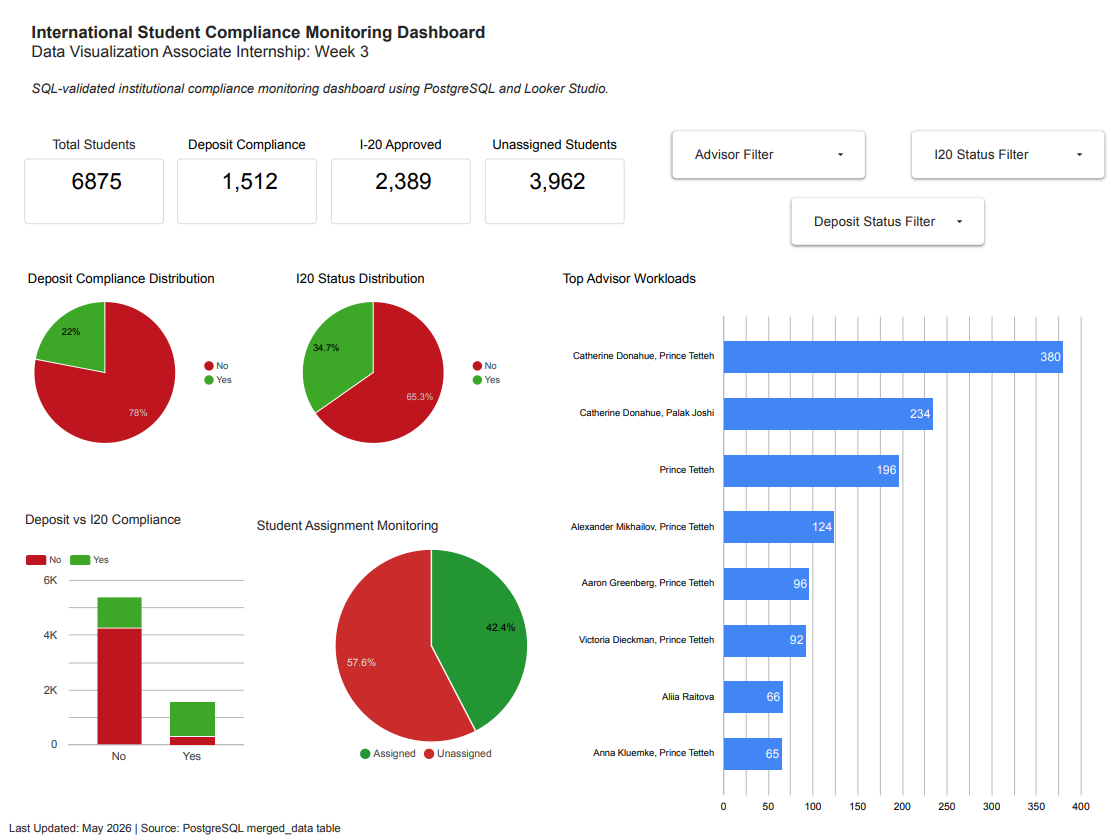
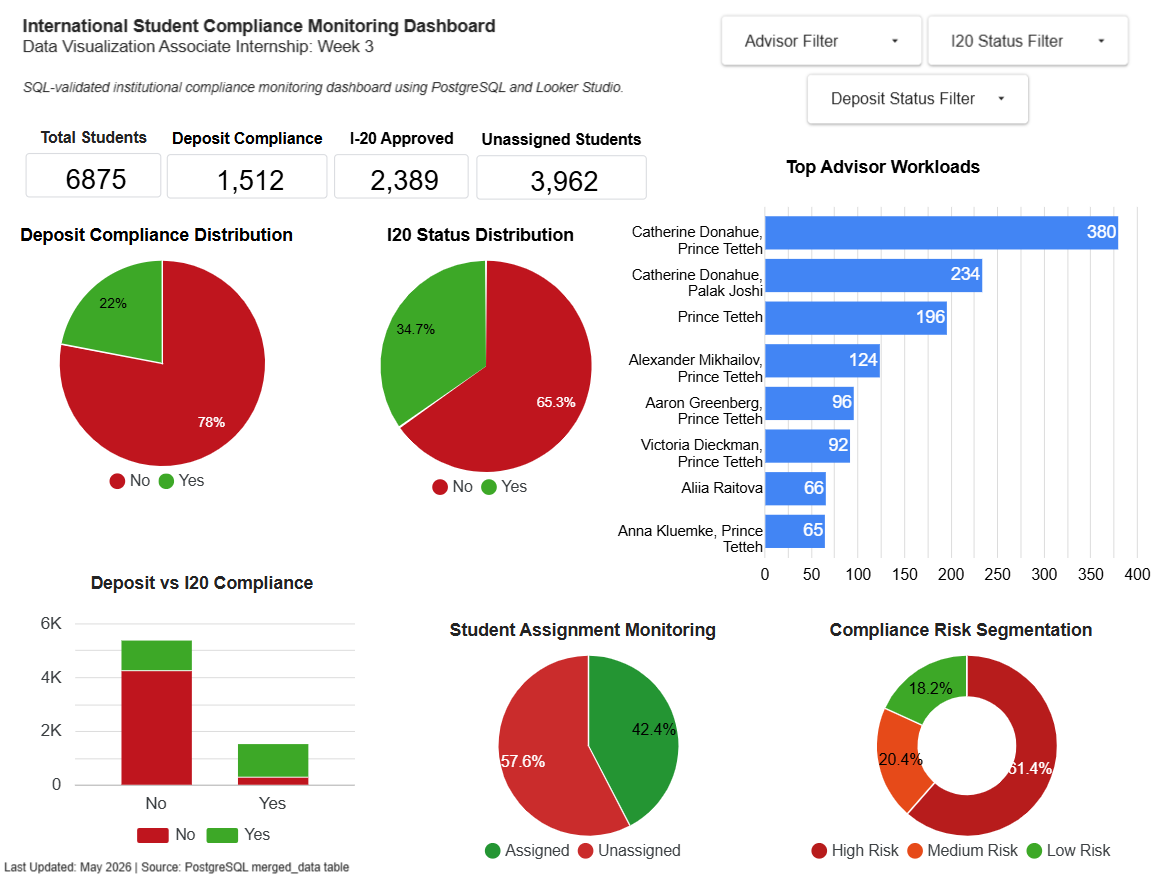
add segmentation

diff --git a/README.md b/README.md
@@ -1,2 +1,210 @@
-# international-student-compliance-analytics
-end-to-end analytics project focused on international student eligibility, compliance validation, enrollment workflows, and dashboard-driven institutional insights.
+# International Student Compliance Risk Intelligence System
+
+SQL-driven operational analytics platform for monitoring international student enrollment compliance, identifying risk clusters, and supporting institutional decision-making.
+
+---
+
+# Project Overview
+
+International student enrollment operations involve multiple compliance checkpoints across admissions, document verification, payment processing, and advisor assignment.
+
+These processes often span disconnected operational systems, making it difficult to monitor student progression, identify at-risk students early, and allocate staff resources efficiently.
+
+This project was developed to centralize student compliance monitoring through SQL-based analytics and dashboard reporting.
+
+Using PostgreSQL and Looker Studio, this project integrates institutional student records into a unified analytics workflow for monitoring compliance performance, operational bottlenecks, and student risk exposure.
+
+---
+
+# Business Problem
+
+Without centralized compliance reporting, institutions face challenges such as:
+
+- incomplete deposit verification
+- delayed I-20 processing
+- high numbers of unassigned students
+- uneven advisor workload distribution
+- limited visibility into student risk pipelines
+
+These issues can delay enrollment progression and create operational inefficiencies.
+
+This project addresses those challenges by creating a compliance monitoring and operational intelligence dashboard.
+
+---
+
+# Objectives
+
+This project aims to:
+
+- monitor international student compliance metrics
+- identify high-risk student segments requiring intervention
+- track deposit completion and I-20 approval rates
+- monitor advisor assignment coverage
+- analyze workload distribution across advisors
+- support operational reporting through dashboard-based decision-making
+
+---
+
+# Dataset
+
+Merged institutional dataset built from:
+
+### Applicant Dataset
+Student eligibility, financial, and enrollment-related records
+
+### Connect Dataset
+Operational tracking and I-20 processing information
+
+### SEVIS Dataset
+Government compliance and immigration-related records
+
+---
+
+# Final Dataset Summary
+
+| Metric | Value |
+|---|---:|
+| Total Students | 6,875 |
+| Deposit Completed | 1,512 |
+| I-20 Approved | 2,389 |
+| High Risk Students | 4,224 |
+| Unassigned Students | 3,962 |
+
+---
+
+# Tech Stack
+
+- PostgreSQL
+- SQL
+- Google Looker Studio
+- GitHub
+- Python (Pandas for preprocessing)
+
+---
+
+# Data Workflow
+
+Raw CSV Files  
+↓  
+Data Cleaning & Validation  
+↓  
+Duplicate Removal  
+↓  
+PostgreSQL Data Import  
+↓  
+SQL Aggregation & Metric Validation  
+↓  
+Dashboard Development in Looker Studio  
+↓  
+Compliance Risk Monitoring & Reporting  
+
+---
+
+# Key Insights
+
+## 1. Large High-Risk Student Population
+
+4,224 students were identified as high risk due to:
+
+- missing deposit completion
+- missing I-20 approval
+
+This represents the largest operational compliance risk segment.
+
+---
+
+## 2. Low Deposit Compliance Rate
+
+Only 1,512 out of 6,875 students completed deposit requirements.
+
+This indicates possible financial compliance bottlenecks affecting enrollment progression.
+
+---
+
+## 3. Uneven Advisor Workload Distribution
+
+Advisor assignment analysis showed concentration of student caseloads among a limited number of staff members.
+
+Top advisor combinations handled 300+ student records while thousands remained unassigned.
+
+---
+
+## 4. Large Unassigned Population
+
+3,962 students remained unassigned to advisors.
+
+This suggests possible workflow backlog or staffing imbalance.
+
+---
+
+# Compliance Risk Segmentation
+
+A rule-based Compliance Risk Score was introduced to classify students requiring operational attention.
+
+Scoring criteria:
+
+- Deposit Status = No → 40 points
+- I20 Status = No → 40 points
+- Unassigned = 20 points
+
+## Risk Distribution
+
+| Risk Level | Total Students |
+|---|---:|
+| High Risk | 4224 |
+| Medium Risk | 1401 |
+| Low Risk | 1250 |
+
+This segmentation framework supports prioritization of high-risk student populations for institutional intervention and compliance monitoring.
+
+---
+
+# Compliance Risk Score Model
+
+A rule-based Compliance Risk Score was developed to prioritize students requiring intervention.
+
+Scoring Logic:
+
+- Deposit Status = No → +40 points
+- I-20 Status = No → +40 points
+- Unassigned = +20 points
+
+Risk Segments:
+
+| Score | Risk Level |
+|---|---|
+| 0–20 | Low Risk |
+| 21–60 | Medium Risk |
+| 61–100 | High Risk |
+
+This scoring framework helps prioritize outreach and operational action.
+
+---
+
+# Dashboard
+
+Interactive dashboard includes:
+
+- Total Students KPI
+- Deposit Compliance Monitoring
+- I-20 Status Monitoring
+- Student Assignment Monitoring
+- Advisor Workload Distribution
+- Compliance Risk Segmentation
+
+Dashboard Link:
+
+[Looker Studio Link](https://datastudio.google.com/reporting/1ad71f21-3117-47ae-9dfa-1542265cfdfa)
+
+---
+
+# Future Improvements
+
+Possible next iterations:
+
+- time-series compliance monitoring
+- automated risk alerts
+- advisor workload forecasting
+- predictive student risk modeling
+- compliance completion trend analysis
+

diff --git a/reports/week4_risk_segmentation_analysis.md b/reports/week4_risk_segmentation_analysis.md
@@ -1,0 +1,71 @@
+# Week 4 — Compliance Risk Segmentation Analysis
+
+## Overview
+
+This analysis introduces a rule-based Compliance Risk Score framework to identify and prioritize students requiring operational intervention.
+
+The model classifies students based on:
+
+- Deposit completion status
+- I-20 approval status
+- Advisor assignment status
+
+---
+
+# Risk Scoring Logic
+
+Scoring rules:
+
+- Deposit Status = No → 40 points
+- I20 Status = No → 40 points
+- Unassigned → 20 points
+
+---
+
+# Risk Levels
+
+| Risk Level | Total Students |
+|---|---:|
+| High Risk | 4224 |
+| Medium Risk | 1401 |
+| Low Risk | 1250 |
+
+---
+
+# Key Findings
+
+## High Risk Students
+4,224 students fall under High Risk.
+
+These students typically have:
+
+- incomplete deposit requirements
+- incomplete I20 processing
+
+This represents the institution’s largest operational risk cluster.
+
+---
+
+## Medium Risk Students
+1,401 students fall under Medium Risk.
+
+These students have partial compliance completion and may require follow-up.
+
+---
+
+## Low Risk Students
+1,250 students fall under Low Risk.
+
+These students generally demonstrate completed compliance milestones and lower operational concern.
+
+---
+
+# Business Value
+
+This model allows operations teams to:
+
+- prioritize student outreach
+- identify compliance bottlenecks earlier
+- monitor unresolved risk clusters
+- improve intervention workflows
+- support resource allocation decisions
